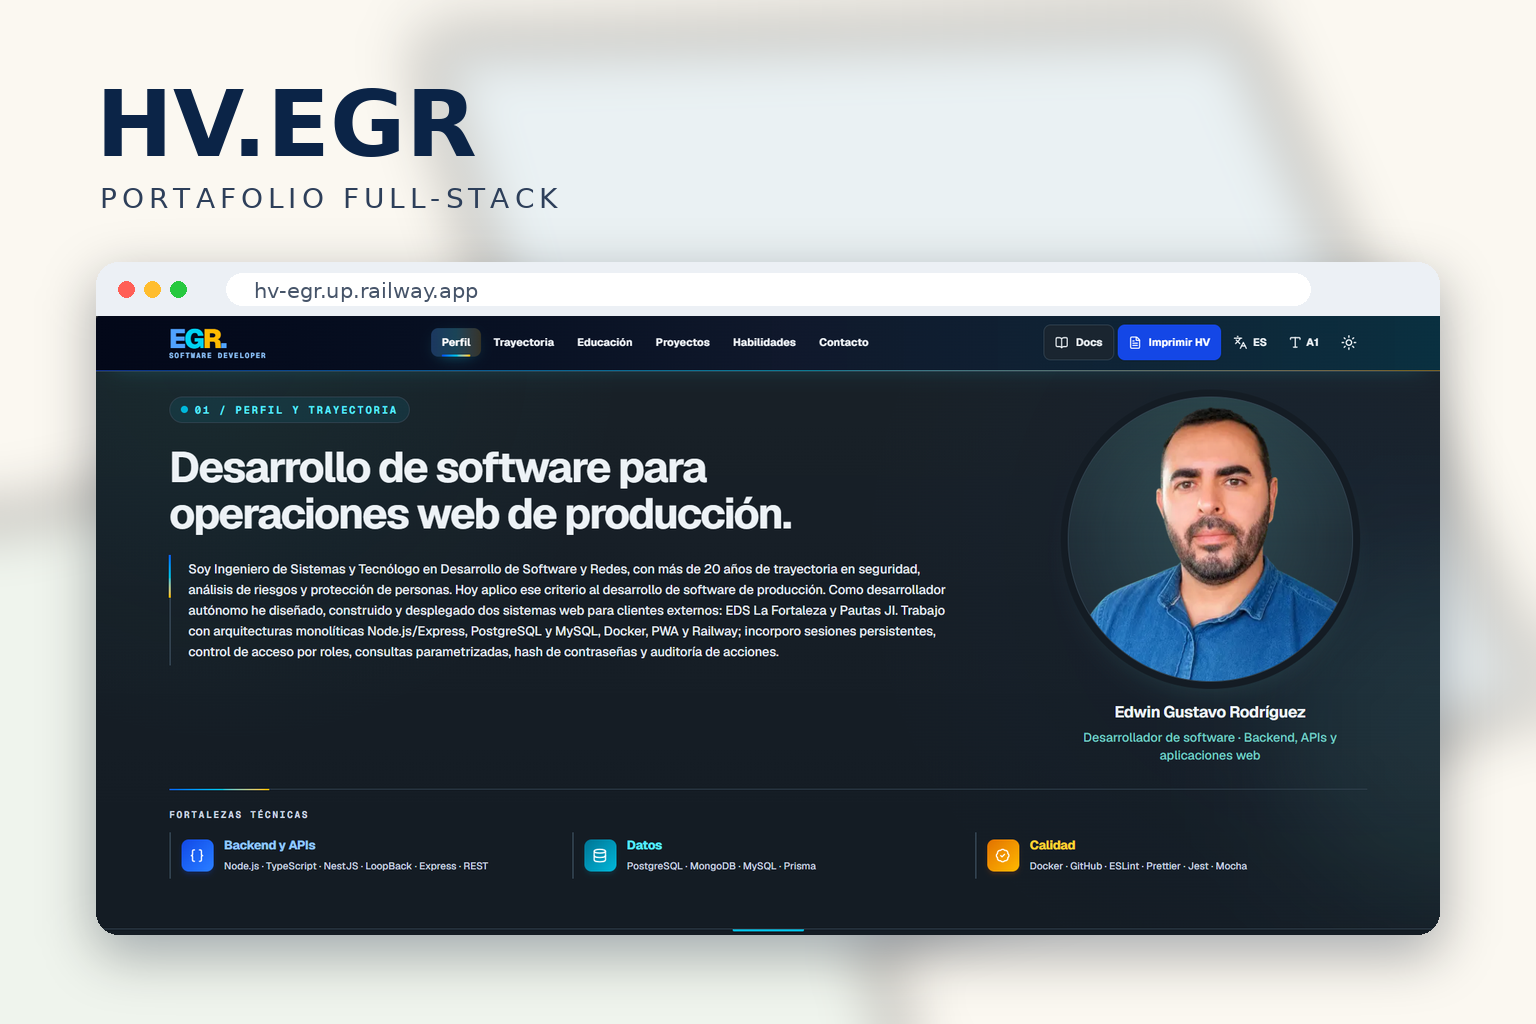
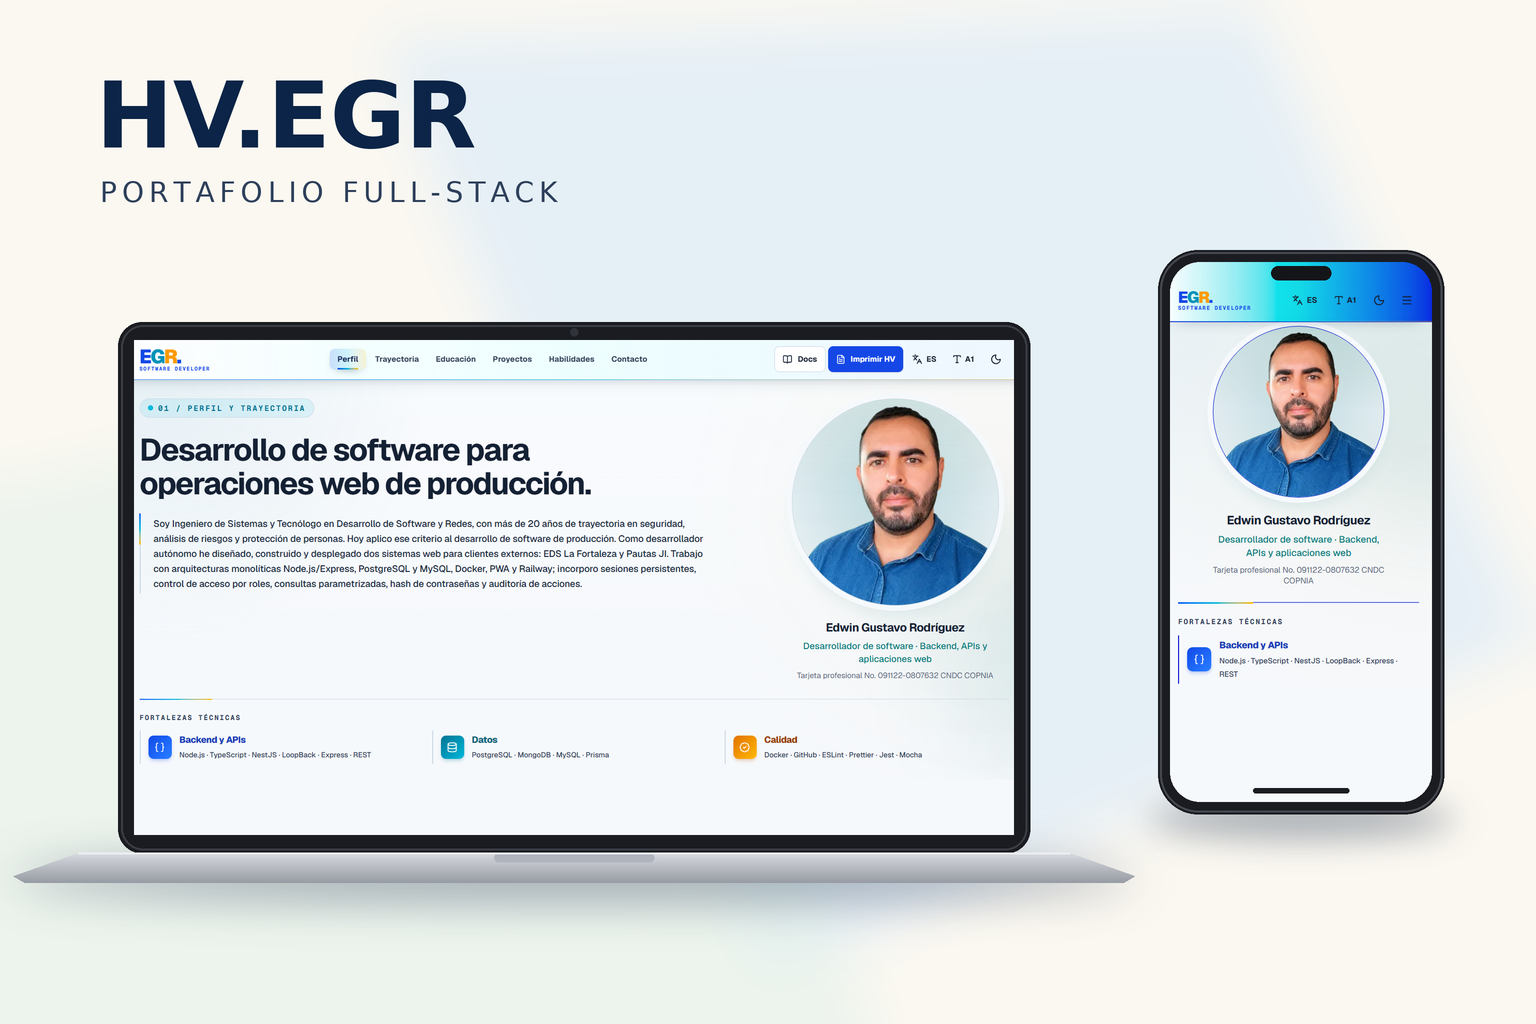
fix: tarjeta y mockup del proyecto HV.EGR con el mismo tamaño que los demas

diff --git a/apps/web/src/components/sections/projects-section.tsx b/apps/web/src/components/sections/projects-section.tsx
@@ -105,6 +105,7 @@ export function ProjectsSection({
                         'fortaleza-app',
                         'ganaderia-app',
                         'pautas-ji',
+                        'portafolio-full-stack',
                         'taxi-ji',
                         'territorio-360',
                       ].includes(project.slug)
@@ -122,6 +123,7 @@ export function ProjectsSection({
                             'fortaleza-app',
                             'edufree-api',
                             'pautas-ji',
+                            'portafolio-full-stack',
                             'taxi-ji',
                             'ganaderia-app',
                             'territorio-360',
